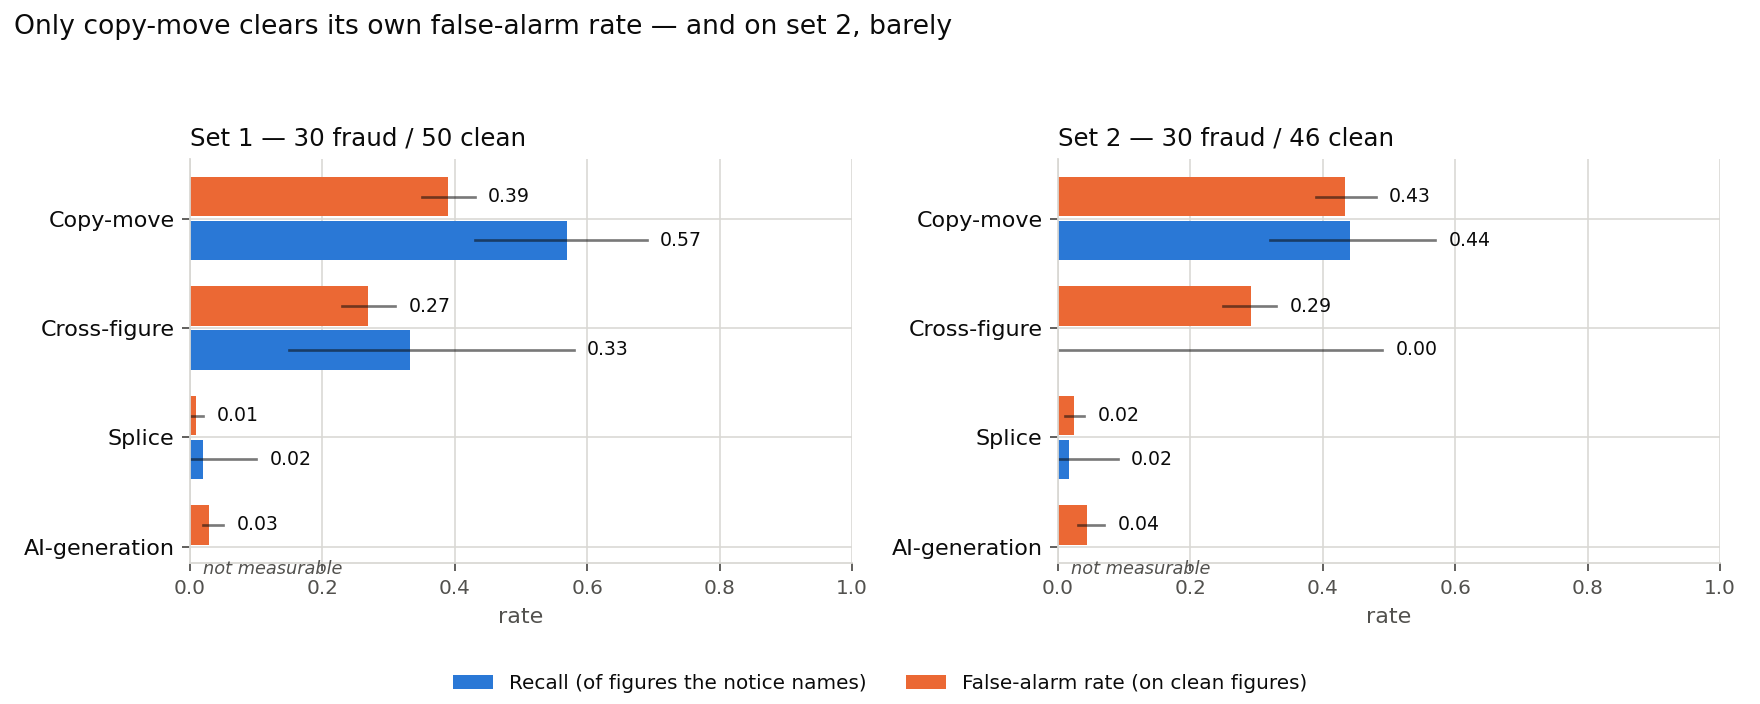
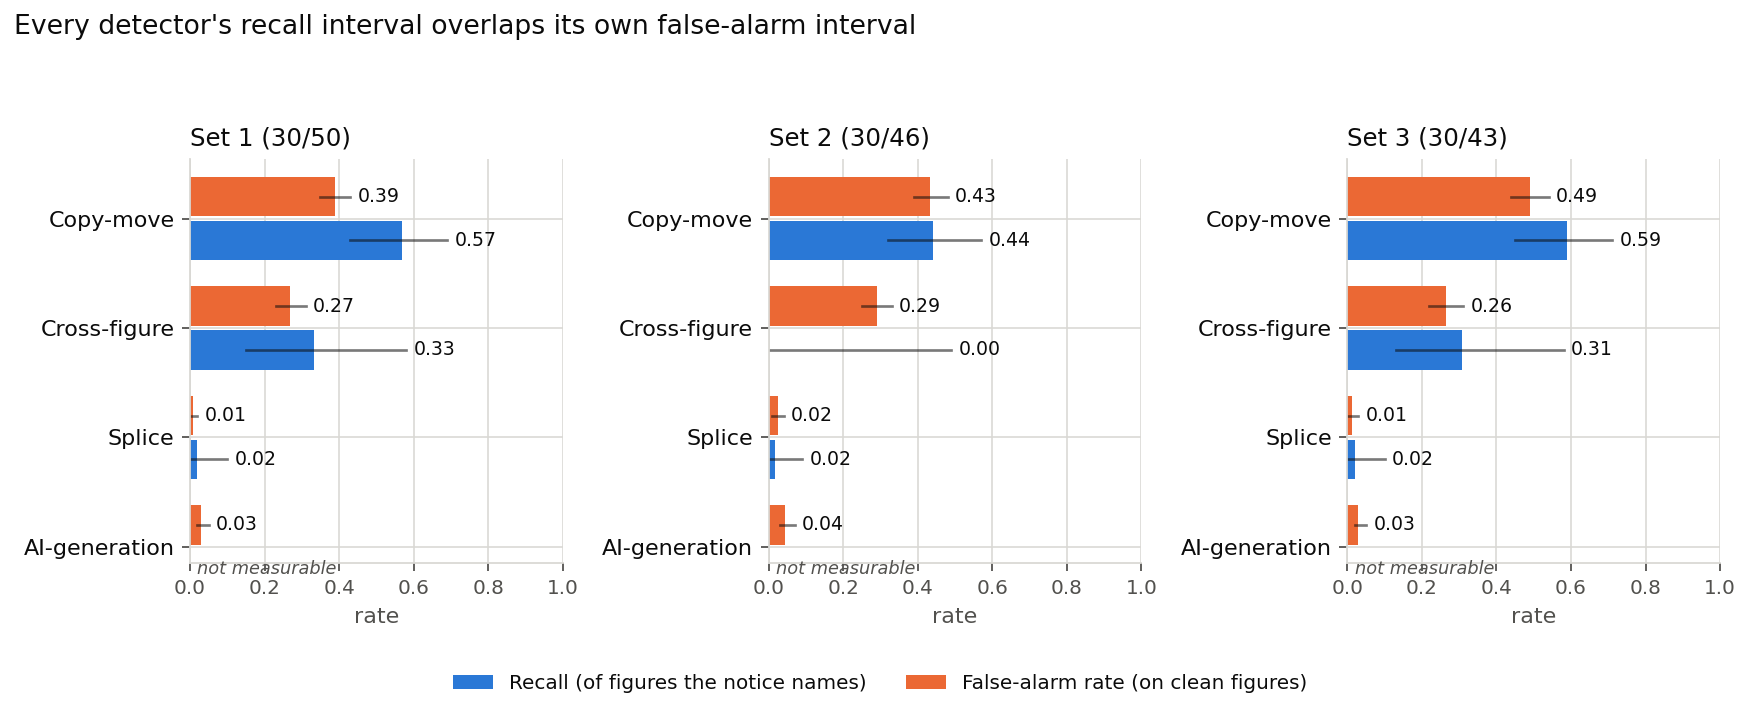
Confirm the figure-count confound on a third, frozen held-out set
Sets 1 and 2 had both informed decisions by now -- the splice demotion, the
classifier, the cutoff -- so neither is a clean test any more. Set 3 (30 fraud /
43 clean, disjoint from both and from the calibration set) was fetched, screened
and run exactly once. It confirms the finding:

                     set 1   set 2   set 3
  paper score        0.685   0.664   0.668
  figure count only  0.681   0.690   0.658
  count-matched      0.571   0.632   0.625

Counting figures matches the pipeline on all three, and beats it on set 2.
Pooled over 439 matched pairs from the three sets the controlled ranking is
0.610, 95% CI [0.482, 0.725] -- probably real signal, about a fifth as strong as
the raw headline, and still touching chance.

The noisy-OR switch is declined. It looked like a free +0.073 on set 1; it lost
on set 2 (0.658 vs 0.664), won narrowly on set 3, and once count is controlled
it is indistinguishable from the point score (0.612 vs 0.610 pooled). Stage 2g's
rule held: one set was not enough.

Two things the third set changed beyond the confound:

* Per-detector recall now has three measurements, and the earlier chart title
  was wrong. Copy-move replicates (0.57 / 0.44 / 0.59), cross-figure gets its
  second non-zero reading (0.33 / 0.00 / 0.31), splice is inert on all three
  (0.02). But in all nine measurable cells the recall interval OVERLAPS that
  detector's own false-alarm interval -- copy-move on set 1 comes closest and
[…]

diff --git a/scripts/plot_results.py b/scripts/plot_results.py
@@ -39,8 +39,10 @@ import matplotlib.pyplot as plt  # noqa: E402
 
 from src.evaluation import metrics as M  # noqa: E402
 
-# Categorical slots 1 and 2 of the validated default order, plus ink/grid tokens.
-SERIES = ["#2a78d6", "#eb6834"]
+# Categorical slots 1-3 of the validated default order, used unchanged and in
+# order. Slot 3 was added when a third held-out set arrived; keeping the first
+# two stable means set 1 and set 2 stay the colours the earlier charts used.
+SERIES = ["#2a78d6", "#eb6834", "#2f9e6f"]
 INK = "#0b0b0b"
 INK_SOFT = "#52514e"
 GRID = "#d9d8d4"
@@ -52,18 +54,24 @@ PRETTY = {"copy_move": "Copy-move", "cross_figure": "Cross-figure",
 
 
 def load_scores(run_dir: str):
-    """(labels, paper scores) from a benchmark report."""
+    """(labels, paper scores, figure counts) from a benchmark report.
+
+    The figure count comes back alongside the score because it is the baseline
+    the chart has to show: on these sets it ranks papers about as well as the
+    pipeline does, and a results chart that omits it overstates the tool.
+    """
     path = os.path.join(run_dir, "benchmark_report.json")
     with open(path, encoding="utf-8") as fh:
         results = json.load(fh)["results"]
-    y, s = [], []
+    y, s, n = [], [], []
     for _pid, entry in results.items():
         report = entry.get("pipeline_report")
         if entry.get("status") != "ok" or not report:
             continue
         y.append(bool(entry["ground_truth"]["is_fraudulent"]))
         s.append(float(report["overall_risk"]["score"]))
-    return y, s
+        n.append(float(len(report.get("figures") or [])))
+    return y, s, n
 
 
 def load_detector_table(run_dir: str) -> dict:
@@ -133,12 +141,19 @@ def plot_curves(runs, out_path):
         style(ax)
 
     for i, (label, run_dir) in enumerate(runs):
-        y, s = load_scores(run_dir)
+        y, s, n = load_scores(run_dir)
         auc, ap = M.roc_auc(y, s), M.average_precision(y, s)
         base = sum(y) / len(y)
         fpr, tpr = roc_points(y, s)
         axes[0].plot(fpr, tpr, color=SERIES[i], linewidth=2,
                      label=f"{label} — AUC {auc:.3f}")
+        # The confound, drawn on the same axis: ranking by figure count alone.
+        # Dotted and thin so the pipeline stays legible, but present, because
+        # the whole point is how little daylight there is between them.
+        cf, ct = roc_points(y, n)
+        axes[0].plot(cf, ct, color=SERIES[i], linewidth=1.1, linestyle=":",
+                     alpha=0.85,
+                     label=f"    …figure count alone — {M.roc_auc(y, n):.3f}")
         rec, prec = pr_points(y, s)
         axes[1].plot(rec, prec, color=SERIES[i], linewidth=2,
                      label=f"{label} — AP {ap:.3f}")
@@ -149,7 +164,8 @@ def plot_curves(runs, out_path):
                  alpha=0.6, label="chance")
     axes[0].set_xlabel("False-positive rate (clean papers flagged)", color=INK_SOFT)
     axes[0].set_ylabel("Recall (fraud papers caught)", color=INK_SOFT)
-    axes[0].set_title("Paper-level ROC", color=INK, fontsize=11, loc="left")
+    axes[0].set_title("Paper-level ROC  (dotted = figure count, no image analysis)",
+                      color=INK, fontsize=11, loc="left")
 
     axes[1].set_xlabel("Recall", color=INK_SOFT)
     axes[1].set_ylabel("Precision", color=INK_SOFT)
@@ -159,12 +175,16 @@ def plot_curves(runs, out_path):
     for ax in axes:
         ax.set_xlim(-0.02, 1.02)
         ax.set_ylim(-0.02, 1.02)
-        leg = ax.legend(frameon=False, fontsize=9, loc="lower right")
-        for t in leg.get_texts():
-            t.set_color(INK)
+    leg = axes[0].legend(frameon=False, fontsize=7.6, loc="lower right",
+                         labelspacing=0.3, handlelength=1.8)
+    for t in leg.get_texts():
+        t.set_color(INK)
+    leg = axes[1].legend(frameon=False, fontsize=9, loc="lower right")
+    for t in leg.get_texts():
+        t.set_color(INK)
 
-    fig.suptitle("Two held-out sets, same pipeline — the gap between them is the "
-                 "finding", color=INK, fontsize=12, x=0.008, ha="left")
+    fig.suptitle("Three held-out sets agree — and counting the figures does "
+                 "nearly as well", color=INK, fontsize=12, x=0.008, ha="left")
     fig.tight_layout(rect=(0, 0, 1, 0.94))
     fig.savefig(out_path, dpi=160, facecolor=SURFACE)
     print(f"wrote {out_path}")
@@ -214,8 +234,13 @@ def plot_detectors(runs, out_path):
                      loc="lower center", ncol=2, bbox_to_anchor=(0.5, -0.01))
     for t in leg.get_texts():
         t.set_color(INK)
-    fig.suptitle("Only copy-move clears its own false-alarm rate — and on set 2, "
-                 "barely", color=INK, fontsize=12, x=0.008, ha="left")
+    # Checked, not assumed: across all three sets every detector's recall
+    # interval overlaps its own false-alarm interval. An earlier title claimed
+    # only copy-move cleared its FPR, which set 3's cross-figure result (0.31
+    # recall against 0.26 FPR) contradicts.
+    fig.suptitle("Every detector's recall interval overlaps its own "
+                 "false-alarm interval", color=INK, fontsize=12, x=0.008,
+                 ha="left")
     fig.tight_layout(rect=(0, 0.07, 1, 0.93))
     fig.savefig(out_path, dpi=160, facecolor=SURFACE)
     print(f"wrote {out_path}")

diff --git a/src/evaluation/benchmark_runner.py b/src/evaluation/benchmark_runner.py
@@ -301,6 +301,25 @@ def main(argv=None) -> int:
         if not report["results"]:
             log.error("no benchmark_report.json to analyze in %s", output_dir)
             return 1
+        # Refresh the ground truth from labels.json before analysing. The report
+        # stores the labels as they were AT RUN TIME, and figure-level
+        # annotations routinely arrive afterwards -- annotate_fraud_figures.py
+        # reads retraction notices over the network, so it is a separate pass.
+        # Without this, --analyze-only silently re-reports the stale labels and
+        # every newly-annotated figure still counts as UNLABELED: set 3 showed
+        # recall "not measurable" for all four detectors with 67 annotated
+        # figures sitting in labels.json.
+        labels_path = eval_cfg["evaluation_set"]["labels_path"]
+        refreshed = {p["paper_id"]: p
+                     for p in load_evaluation_set(labels_path)["papers"]}
+        n_updated = 0
+        for pid, entry in report["results"].items():
+            if pid in refreshed and entry.get("ground_truth") != refreshed[pid]:
+                entry["ground_truth"] = refreshed[pid]
+                n_updated += 1
+        if n_updated:
+            log.info("refreshed ground truth for %d paper(s) from %s",
+                     n_updated, labels_path)
     else:
         evaluation_set = load_evaluation_set(
             eval_cfg["evaluation_set"]["labels_path"])

diff --git a/EVALUATION.md b/EVALUATION.md
@@ -5,12 +5,19 @@ started, what was changed and why, where they landed on **unseen data**, and
 what is still open. Nothing here is spun. The numbers are unflattering where the
 tool is weak, and where a later stage disproved an earlier one **both are left
 standing** so the correction is visible — Stage 2e reports a gain that Stage 2g
-then withdraws.
+then withdraws, and Stage 2h undercuts the paper-level headline of every stage
+before it.
 
 Every figure-level rate carries a 95% Wilson interval; every paper-level claim
 is either threshold-free (ROC-AUC, average precision) or leave-one-out. Read the
 intervals, not the point estimates: with 30 fraud papers per set they are wide
 enough to swallow most single changes, which is the lesson of Stage 2g.
+
+**Read Stage 2h before quoting any paper-level ROC-AUC on this page**, including
+the ones above it. Figure count alone scores 0.658–0.690 across the three
+held-out sets against the pipeline's 0.664–0.685, so an uncontrolled paper-level
+AUC does not distinguish forensics from counting figures. The figure-level rates
+are unaffected.
 
 ← [Back to the README](README.md)
 
@@ -268,16 +275,18 @@ So Stage 2e's "+0.048 ROC-AUC from the classifier" **did not survive contact wit
 
 ### Per-detector recall — measured for the first time
 
-Every previous stage reported recall as *not measurable*: Retraction Watch says a paper was retracted for "Duplication of/in Image", never which figure. [scripts/annotate_fraud_figures.py](scripts/annotate_fraud_figures.py) closes that gap by reading the retraction *notice* — a separate article that often does name figures — via PubMed's `RetractionIn` pointer. It found a notice for **60 of 60 fraud papers** across both sets and extracted figure numbers from 50 of them (the other 10 are bare "Retracted: <title>" with no detail), marking **130 figures** as manipulated.
+Every previous stage reported recall as *not measurable*: Retraction Watch says a paper was retracted for "Duplication of/in Image", never which figure. [scripts/annotate_fraud_figures.py](scripts/annotate_fraud_figures.py) closes that gap by reading the retraction *notice* — a separate article that often does name figures — via PubMed's `RetractionIn` pointer. It found a notice for **89 of 90 fraud papers** across the three sets and extracted figure numbers from 74 of them (the rest are bare "Retracted: <title>" with no detail), marking **197 figures** as manipulated.
 
 With those labels, the shipped configuration finally has two-sided numbers, and they replicate across two independent sets:
 
-| Detector | Recall (set 1) | Recall (set 2) | Precision (set 1) | Precision (set 2) |
+| Detector | Recall (set 1) | Recall (set 2) | Recall (set 3) | FPR (set 1 / 2 / 3) |
 |---|---|---|---|---|
-| Copy-move | **0.576** (95% CI 0.46–0.69) | **0.476** (0.36–0.60) | 0.184 (0.14–0.24) | 0.146 (0.10–0.20) |
-| Splice | **0.030** (0.01–0.10) | **0.048** (0.02–0.13) | 0.400 (0.12–0.77) | 0.273 (0.10–0.57) |
-| Cross-figure | *no positives of its type* | — | — | — |
-| AI-generation | *no positives of its type* | — | — | — |
+| Copy-move | **0.57** (95% CI 0.43–0.69) | **0.44** (0.32–0.57) | **0.59** (0.45–0.71) | 0.39 / 0.43 / 0.49 |
+| Cross-figure | **0.33** (0.15–0.58) | **0.00** (0.00–0.49) | **0.31** (0.13–0.58) | 0.27 / 0.29 / 0.26 |
+| Splice | **0.02** (0.00–0.10) | **0.02** (0.00–0.09) | **0.02** (0.00–0.10) | 0.01 / 0.02 / 0.01 |
+| AI-generation | *no positives of its type* | — | — | 0.03 / 0.04 / 0.03 |
+
+**In all nine measurable cells, the recall interval overlaps that detector's own false-alarm interval.** Copy-move on set 1 comes closest — 0.57 [0.43–0.69] against 0.39 [0.35–0.43] — and still does not separate. The detectors generate leads; none of them has yet been shown to generate right ones more often than wrong ones at a rate the intervals can distinguish.
 
 **What this changes:**
 
@@ -291,6 +300,53 @@ With those labels, the shipped configuration finally has two-sided numbers, and 
 The roadmap's top detector lever was to promote the residual-clone test from a damping factor to a hard veto on cross-figure matches, as the dense copy-move tier already does. It is implemented ([`residual_veto_independent`](src/config/config.yaml)) — and it **changes nothing at all**: gated and ungated runs produce byte-identical cross-figure output for all **546 figures across 80 papers**.
 
 The reason is worth recording, because it redirects the work. Instrumenting the residual test through the orchestrator gives **30 of 30 verdicts as `CLONE`** (median correlation 1.000) and never `INDEPENDENT` — the veto condition simply never occurs. Cross-figure's false alarms are not honest look-alikes that a noise test can reject; they *pass* the noise test. Two contributors were identified: 4 of 50 clean packages ship byte-identical duplicate image files under different names, and publisher JPEG compression correlates residuals — the same effect this README already notes behind copy-move's spurious `CLONE` calls. The gate is kept (six lines, config-flagged, zero measured cost, plausibly useful on native uncompressed figures) but it is **not** the fix for cross-figure specificity.
+
+### Stage 2h — the paper score is largely a figure counter
+
+Every stage above quoted a paper-level ROC-AUC. None of them checked it against the most boring predictor available. On held-out set 1:
+
+| Predictor | ROC-AUC |
+|---|---|
+| **Number of figures in the paper — no image analysis at all** | **0.681** |
+| Shipped paper score (`0.7·max + 0.3·mean`) | 0.685 |
+| Shipped score ÷ figure count | 0.505 |
+
+Retracted papers have more figures (median 7.5 vs 5.0), and any statistic that accumulates per-figure evidence inherits that. Among clean papers alone, `corr(n_figures, risk score) = 0.451`: a clean control with 8 figures averages 24.1 risk, one with 4 averages 15.0. This is uncontrolled multiple testing — the score grows with how many chances the pipeline was given to fire.
+
+**It replicates on all three sets**, including one frozen specifically to test it:
+
+| | Set 1 (30/50) | Set 2 (30/46) | **Set 3 (30/43, frozen)** |
+|---|---|---|---|
+| Shipped paper score | 0.685 | 0.664 | 0.668 |
+| Figure count alone | 0.681 | **0.690** | 0.658 |
+| Noisy-OR posterior | 0.758 | 0.658 | 0.677 |
+
+On set 2 the figure counter **beats** the forensic pipeline. Sets 1 and 2 had both informed decisions by this point (the splice demotion, the classifier, the cutoff), so set 3 was downloaded fresh, screened, and run exactly once — the numbers above are its first and only use.
+
+**The honest measurement is `count_matched_auc`**, which compares only fraud/clean pairs with an *identical* figure count, so the confound scores exactly 0.500 by construction:
+
+| | Set 1 | Set 2 | Set 3 | **Pooled (439 pairs)** |
+|---|---|---|---|---|
+| Shipped paper score | 0.571 | 0.632 | 0.625 | **0.610**  95% CI [0.482, 0.725] |
+| Noisy-OR posterior | 0.607 | 0.602 | 0.629 | **0.612**  95% CI [0.493, 0.725] |
+
+So there is probably real forensic signal in the paper ranking — the point estimate is above chance in all six cells — but it is **roughly a fifth as strong as the uncontrolled headline implies**, and even pooled across 439 matched pairs from three independent sets the 95% interval still touches 0.5. Every run now prints this line and both reference rankings, so the confound cannot go unreported again.
+
+**A change measured, and not adopted.** The obvious fix is to correct for the count explicitly. [src/pipeline/paper_inference.py](src/pipeline/paper_inference.py) does it properly: split-conformal p-values per figure against a clean calibration set, then Benjamini–Yekutieli across the paper's figures (BY not BH — figures within a paper share instrument, compression and authors, and BY's `C(m)` factor is valid under arbitrary dependence). Leave-one-paper-out calibrated on set 1, every count-corrected combiner **lost**:
+
+| Combiner | ROC-AUC | AP | | Combiner | ROC-AUC | AP |
+|---|---|---|---|---|---|---|
+| BY min-adjusted *p* | 0.561 | 0.412 | | Fisher | 0.650 | 0.597 |
+| Count of BY-rejected figures | 0.500 | 0.375 | | Stouffer | 0.513 | 0.443 |
+| Simes | 0.602 | 0.455 | | Higher criticism | 0.633 | 0.544 |
+
+against the shipped 0.685. Two reasons, both about this data rather than the theory: 42.5% of figures score exactly 0 (48.6% of the clean calibration figures too), so conformal *p*-values collapse onto a handful of values and the ordering inside them is lost; and BY's headline is driven by a single figure, while a max-type statistic was already the weaker choice here (max figure probability 0.723 vs noisy-OR 0.758).
+
+The conclusion is that figure count is **not purely an artifact to strip out**. Part of it is real — bigger papers do carry more opportunity — and removing it costs more than the confound does. The correction therefore lives in *measurement*, not in the ranking. The conformal calibrator is kept because its false-positive guarantee is a theorem rather than a measurement, and holds around whatever statistic it wraps.
+
+**The noisy-OR switch was also declined.** On set 1 it looked like a free +0.073 AUC. It lost on set 2 (0.658 vs 0.664), won narrowly on set 3, and once figure count is controlled it is indistinguishable from the shipped score (0.612 vs 0.610 pooled). Stage 2g's rule held: one set was not enough.
+
+**A measurement bug found on the way.** `average_precision` sorted with a stable sort keyed on score alone, so tied papers kept their order in `benchmark_report.json` — which writes fraud papers first. Every tied fraud paper therefore sat above every tied clean one. Invisible on the near-continuous headline scores (paper-score AP is 0.6128 before and after), but severe on coarse statistics: `max_corroboration` reported AP **0.865** where honest tie-breaking averages 0.618, higher than all of 200 random shuffles. It is now the standard block-wise definition, verified identical to the old code on 300 all-distinct cases and to `sklearn` on 400 heavy-tie cases.
 
 ### Stage 3 — what's still to do (in priority order)
 

diff --git a/README.md b/README.md
@@ -19,32 +19,41 @@ The evaluation is the point of the project. Detectors are easy to write and easy
 
 ## Where it stands
 
-Measured on **two independent held-out sets** of real PubMed Central papers — 30 formally-retracted image-fraud papers against 50 and 46 clean controls, no overlap with anything used for tuning.
+Measured on **three independent held-out sets** of real PubMed Central papers — 30 formally-retracted image-fraud papers each, against 50, 46 and 43 clean controls, with no overlap between sets or with anything used for tuning.
 
-![ROC and precision-recall on both held-out sets](images/roc_pr.png)
+![ROC and precision-recall on the held-out sets](images/roc_pr.png)
 
-| | Set 1 (30/50) | Set 2 (30/46) |
-|---|---|---|
-| ROC-AUC (0.5 = chance) | 0.685 | 0.664 |
-| Average precision (base rate 0.38 / 0.39) | 0.613 | 0.567 |
-| Recall at the screening cutoff | 0.70 | 0.77 |
-| Precision at the screening cutoff | 0.60 | 0.52 |
+| | Set 1 (30/50) | Set 2 (30/46) | Set 3 (30/43) |
+|---|---|---|---|
+| ROC-AUC (0.5 = chance) | 0.685 | 0.664 | 0.668 |
+| **…with figure count controlled** | **0.571** | **0.632** | **0.625** |
+| *Figure count alone, no image analysis* | *0.681* | *0.690* | *0.658* |
+| Average precision | 0.613 | 0.567 | 0.602 |
+| Recall at the screening cutoff | 0.70 | 0.77 | 0.60 |
+| Precision at the screening cutoff | 0.60 | 0.52 | 0.53 |
 
-It finds roughly **7 in 10 known-fraud papers** while flagging **28–46% of clean ones**. That is a triage aid for a human reviewer, not a verdict machine, and the README says so because the numbers do.
+It finds roughly **6–8 in 10 known-fraud papers** while flagging **28–47% of clean ones**. That is a triage aid for a human reviewer, not a verdict machine, and the README says so because the numbers do.
+
+**Read the second and third rows together.** Retracted papers simply have more figures (median 7.5 vs 5.0), and counting them predicts retraction about as well as the whole pipeline does — better, on set 2. Comparing only papers with an *identical* figure count, the ranking pooled across all three sets is **0.610 (95% CI 0.482–0.725, 439 matched pairs)**: probably real signal, roughly a fifth as strong as the raw number suggests, and still not separable from chance at 95%. Every evaluation run prints this control.
 
 **Per-detector, the honest picture** — and the half of it that only became measurable once retraction notices were parsed for figure-level labels:
 
 ![Per-detector recall and false-alarm rate](images/detector_recall_fpr.png)
 
-Copy-move is the only detector with real, replicated sensitivity: it catches about **half** the figures a retraction notice actually names. Splice fires on ~2% of the figures it should. Cross-figure is at or below chance. AI-generation's recall cannot be measured at all, because no retraction notice in either set describes a figure as generated.
+Copy-move has the clearest sensitivity, replicated three times: it catches about **half** the figures a retraction notice actually names (0.57 / 0.44 / 0.59). Cross-figure lands at 0.33 / 0.00 / 0.31. Splice fires on ~2% of the figures it should, on all three sets. AI-generation's recall cannot be measured at all, because no retraction notice in any set describes a figure as generated.
 
-**And one detector has never been evaluated at all.** Claim-consistency needs an `ANTHROPIC_API_KEY`, and every benchmark run above was made without one, so it was skipped on all 1,046 figures and contributes nothing to any number on this page — while still holding 10 of the 100 risk-score points. It is implemented and unit-tested against a mocked LLM; it has never been scored against real papers. Closing that gap needs a key and a re-run, and it is the largest unmeasured surface in the project.
+But read the error bars, not the bars: **across all three sets, every detector's recall interval overlaps its own false-alarm interval.** Copy-move comes closest to separating (0.57 [0.43–0.69] against 0.39 [0.35–0.43] on set 1) and does not manage it. At the figure level this tool surfaces leads; it does not yet demonstrate that it surfaces the right ones more often than the wrong ones.
 
-**Three findings worth more than the metrics:**
+**And one detector has never been evaluated at all.** Claim-consistency needs an `ANTHROPIC_API_KEY`, and every benchmark run above was made without one, so it was skipped on all 1,475 figures of the three held-out sets and contributes nothing to any number on this page — while still holding 10 of the 100 risk-score points. It is implemented and unit-tested against a mocked LLM; it has never been scored against real papers. Closing that gap needs a key and a re-run, and it is the largest unmeasured surface in the project.
 
+**Four findings worth more than the metrics:**
+
+- **The headline metric was measuring the wrong thing.** Paper-level ROC-AUC could not distinguish this pipeline from `len(paper.figures)`. Found by benchmarking against the dumbest possible predictor — now a permanent line in every report.
 - **An "improvement" that did not replicate.** A trained AI-generation classifier lifted set 1's ROC-AUC 0.685 → 0.733. On set 2 it was the *worst* of three configurations, with triple the false-alarm rate. It is disabled by default and the whole arc is documented rather than deleted.
 - **A threshold, not a model.** Most of that apparent gain was reproducible by a two-line threshold change with no classifier at all.
 - **One held-out set is not enough.** The same detector's false-alarm rate moved 1.4% → 5.4% between sets with no code change.
+
+Two further changes were built, measured, and **declined**: an explicit conformal + Benjamini–Yekutieli count correction (it ranks *worse* than the confound it removes), and switching the headline to the noisy-OR posterior (a +0.073 win on set 1 that did not replicate). Both are documented with their numbers.
 
 **→ [Full evaluation: stage by stage, including what was withdrawn](EVALUATION.md)**
 
@@ -61,7 +70,7 @@ python run_scholarguard.py --pdf path/to/paper.pdf
 Writes one integrity report (JSON + Markdown) with a paper-level risk score. No API key? It still runs on image forensics and says what it skipped. All behaviour is configured in [src/config/config.yaml](src/config/config.yaml).
 
 ```bash
-pytest -q            # 168 passed, 1 skipped
+pytest -q            # 200 passed, 1 skipped
 docker build -t scholarguard .        # CPU-only image, datasets mounted not baked
 ```
 
